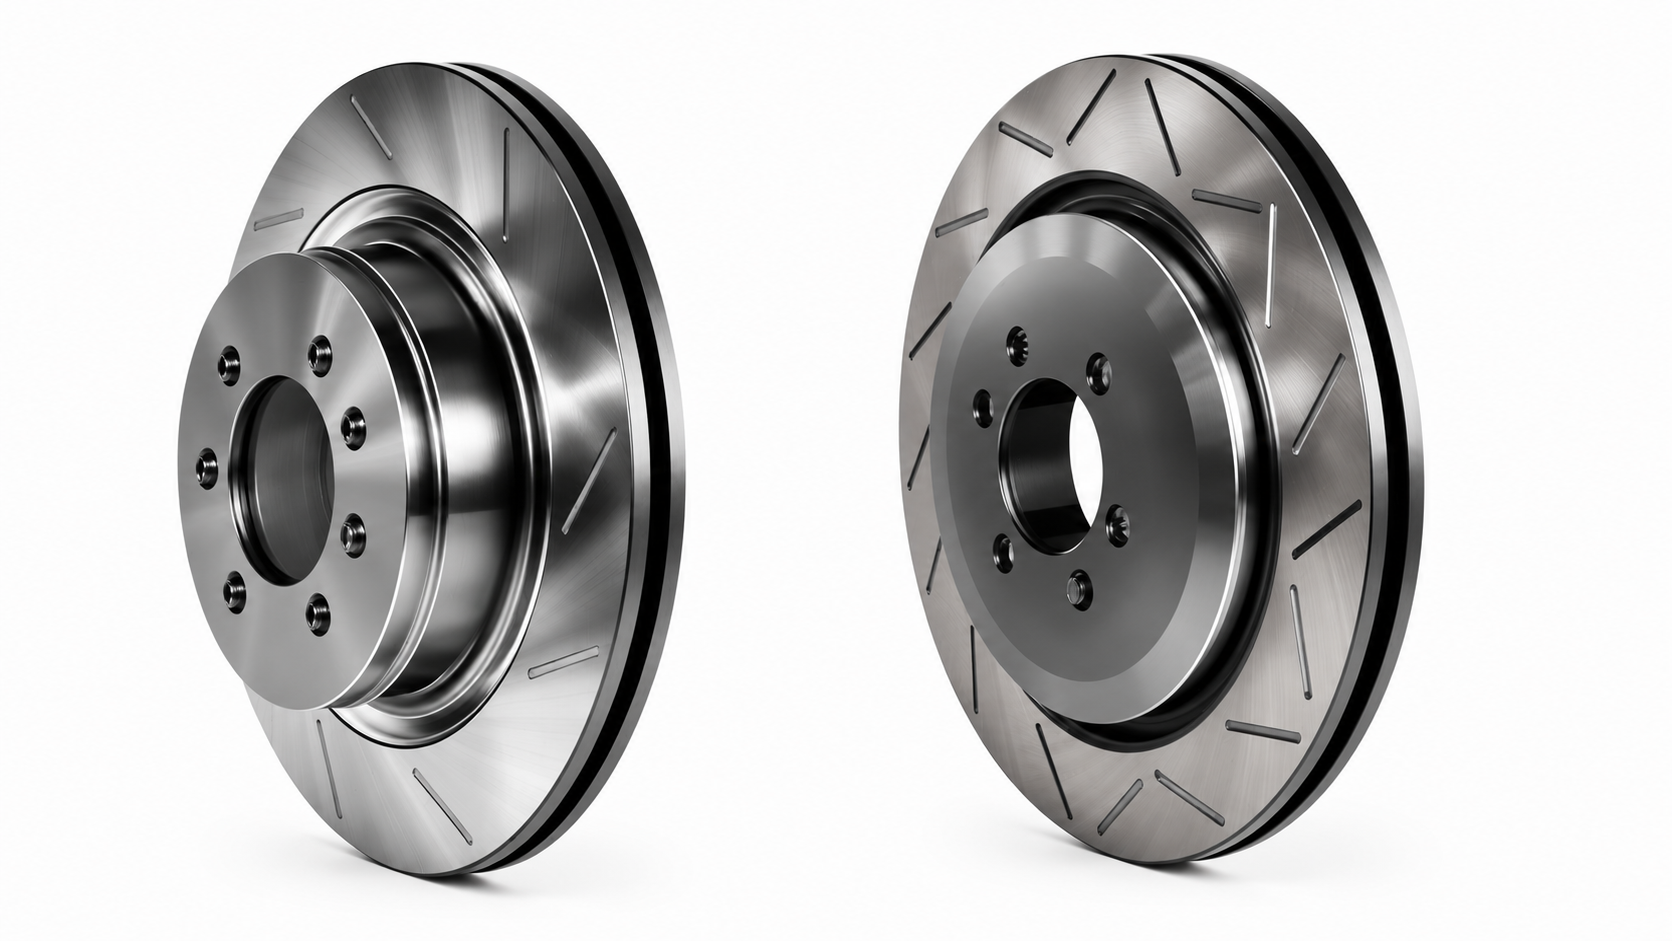
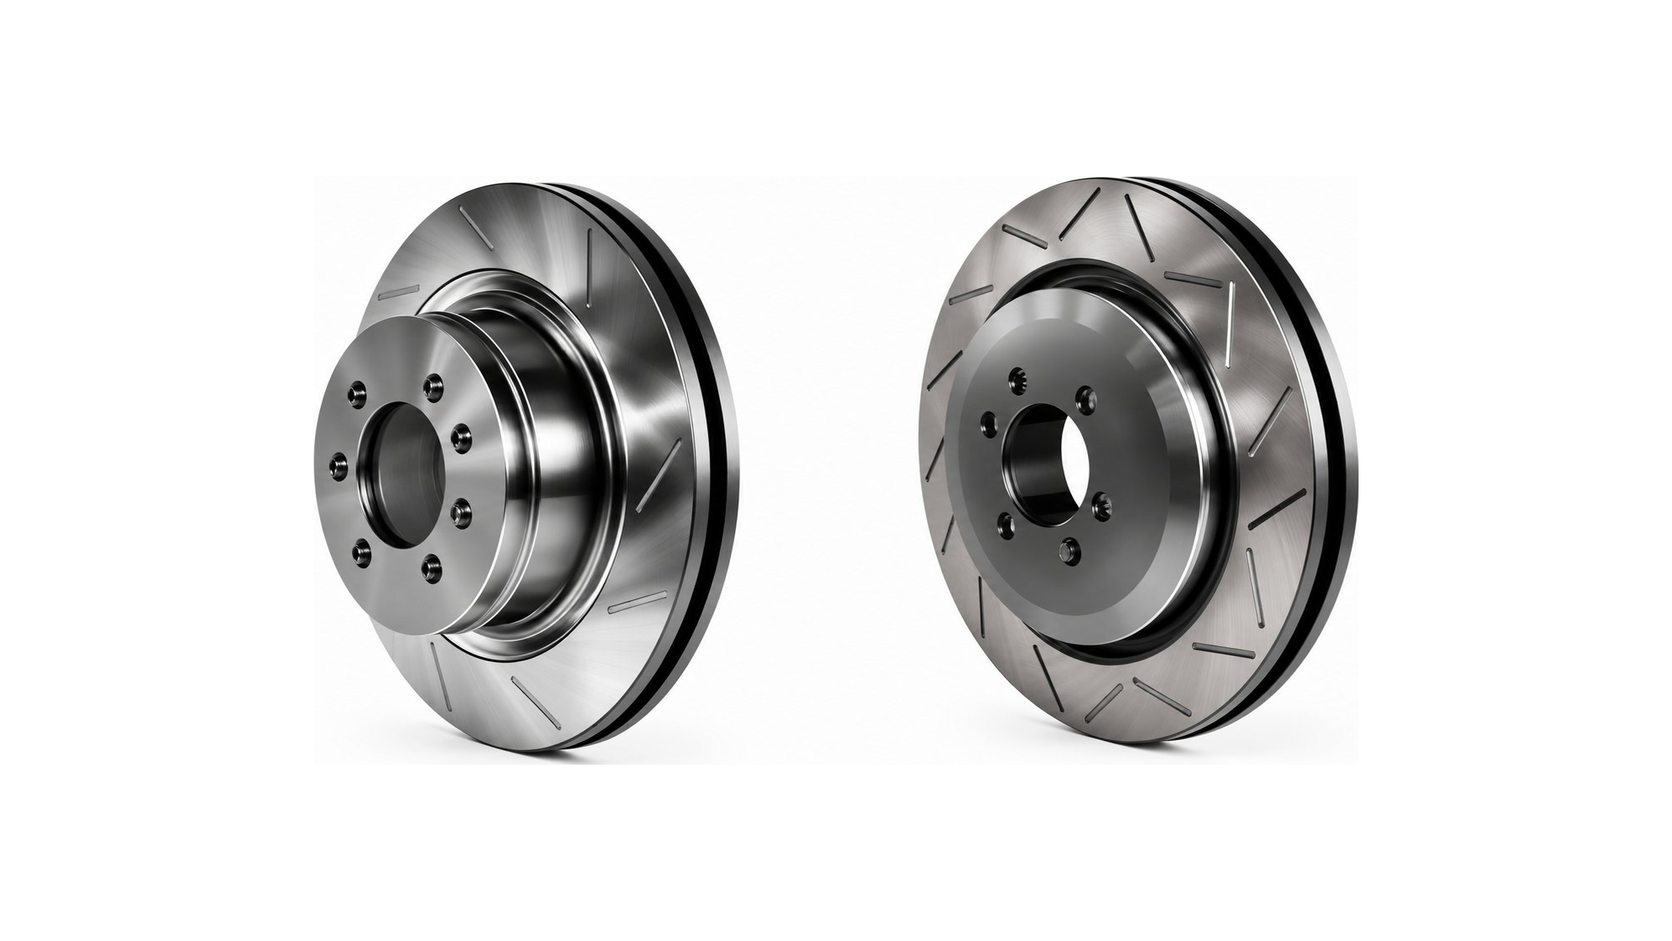
Ajustes Finais

diff --git a/products.html b/products.html
@@ -114,7 +114,7 @@
         </div>
         <div class="prod-card">
           <div class="prod-card__img">
-            <img src=" " alt="Brake Pads" loading="lazy" />
+            <img src="img/BrakePad.png" " alt="Brake Pads" loading="lazy" />
           </div>
           <div class="prod-card__body">
             <h3>Ceramic &amp; Semi-Metallic Brake Pads</h3>
@@ -141,7 +141,7 @@
         </div>
         <div class="prod-card">
           <div class="prod-card__img">
-            <img src=" " alt="Brake Drum" loading="lazy" />
+            <img src="img/BrakeDrum.png" alt="Brake Drum" loading="lazy" />
           </div>
           <div class="prod-card__body">
             <h3>Brake Drum</h3>
@@ -150,7 +150,7 @@
         </div>
         <div class="prod-card">
           <div class="prod-card__img">
-            <img src=" " alt="Brake Lining Roll" loading="lazy" />
+            <img src="img/BrakeLiningRoll.png" " alt="Brake Lining Roll" loading="lazy" />
           </div>
           <div class="prod-card__body">
             <h3>Brake Lining Roll</h3>
@@ -159,7 +159,7 @@
         </div>
         <div class="prod-card">
           <div class="prod-card__img">
-            <img src=" " alt="Master Cylinder" loading="lazy" />
+            <img src="img/MasterCylinder.png" " alt="Master Cylinder" loading="lazy" />
           </div>
           <div class="prod-card__body">
             <h3>Master Cylinder</h3>
@@ -168,7 +168,7 @@
         </div>
         <div class="prod-card">
           <div class="prod-card__img">
-            <img src=" " alt="Brake Hose" loading="lazy" />
+            <img src="img/FlexibleBrakeHose.png" " alt="Brake Hose" loading="lazy" />
           </div>
           <div class="prod-card__body">
             <h3>Flexible Brake Hose</h3>
@@ -199,7 +199,7 @@
       <div class="prod-grid prod-grid--2">
         <div class="prod-card">
           <div class="prod-card__img">
-            <img src="  alt="Heavy Duty Truck Tires" loading="lazy" />
+            <img src="img/HeavyDutyTires.png" alt="Heavy Duty Truck Tires" loading="lazy" />
           </div>
           <div class="prod-card__body">
             <h3>Heavy-Duty Tires (Trucks &amp; Buses)</h3>
@@ -208,7 +208,7 @@
         </div>
         <div class="prod-card">
           <div class="prod-card__img">
-            <img src=" " alt="Passenger Car Tires" loading="lazy" />
+            <img src="img/LightVehicleTires.png" " alt="Passenger Car Tires" loading="lazy" />
           </div>
           <div class="prod-card__body">
             <h3>Light Vehicle Tires (Passenger Cars)</h3>
@@ -280,7 +280,7 @@
       <div class="prod-grid prod-grid--2">
         <div class="prod-card">
           <div class="prod-card__img">
-            <img src=" " alt="Gears" loading="lazy" />
+            <img src="img/Gear.png" " alt="Gears" loading="lazy" />
           </div>
           <div class="prod-card__body">
             <h3>Gears</h3>
@@ -289,10 +289,10 @@
         </div>
         <div class="prod-card">
           <div class="prod-card__img">
-            <img src=" " alt="Crown and Pinion" loading="lazy" />
+            <img src="img/CrownP.png" " alt="Crown and Pinion" loading="lazy" />
           </div>
           <div class="prod-card__body">
-            <h3>Coroa e Pinhão (Crown &amp; Pinion)</h3>
+            <h3>Crown &amp; Pinion</h3>
             <p>Ring and pinion gear sets for differentials and transmission assemblies.</p>
           </div>
         </div>
@@ -320,7 +320,7 @@
       <div class="prod-grid prod-grid--1">
         <div class="prod-card">
           <div class="prod-card__img prod-card__img--tall">
-            <img src=" " alt="Agricultural Parts" loading="lazy" />
+            <img src="img/AgriculturalMachinery.png" " alt="Agricultural Parts" loading="lazy" />
           </div>
           <div class="prod-card__body">
             <h3>Agricultural Machinery Parts (General)</h3>
@@ -347,11 +347,11 @@
       <div class="prod-grid prod-grid--1">
         <div class="prod-card">
           <div class="prod-card__img prod-card__img--tall">
-            <img src=" " alt="ARLA 32" loading="lazy" />
+            <img src="img/DEF.png" " alt="ARLA 32" loading="lazy" />
           </div>
           <div class="prod-card__body">
-            <h3>Diesel Exhaust Fluid (DEF)</h3>
-            <p>High-purity automotive urea solution for SCR diesel emission systems. Compliant with ISO 22241. Available in multiple packaging formats for fleet and retail distribution.</p>
+            <h3>Automotive Urea</h3>
+            <p>High-purity automotive-grade urea (granulated) for SCR diesel emission systems. Compliant with ISO 22241. Available in Big Bags of 800 kg and 1,000 kg for fleet and bulk distribution.</p>
           </div>
         </div>
       </div>
